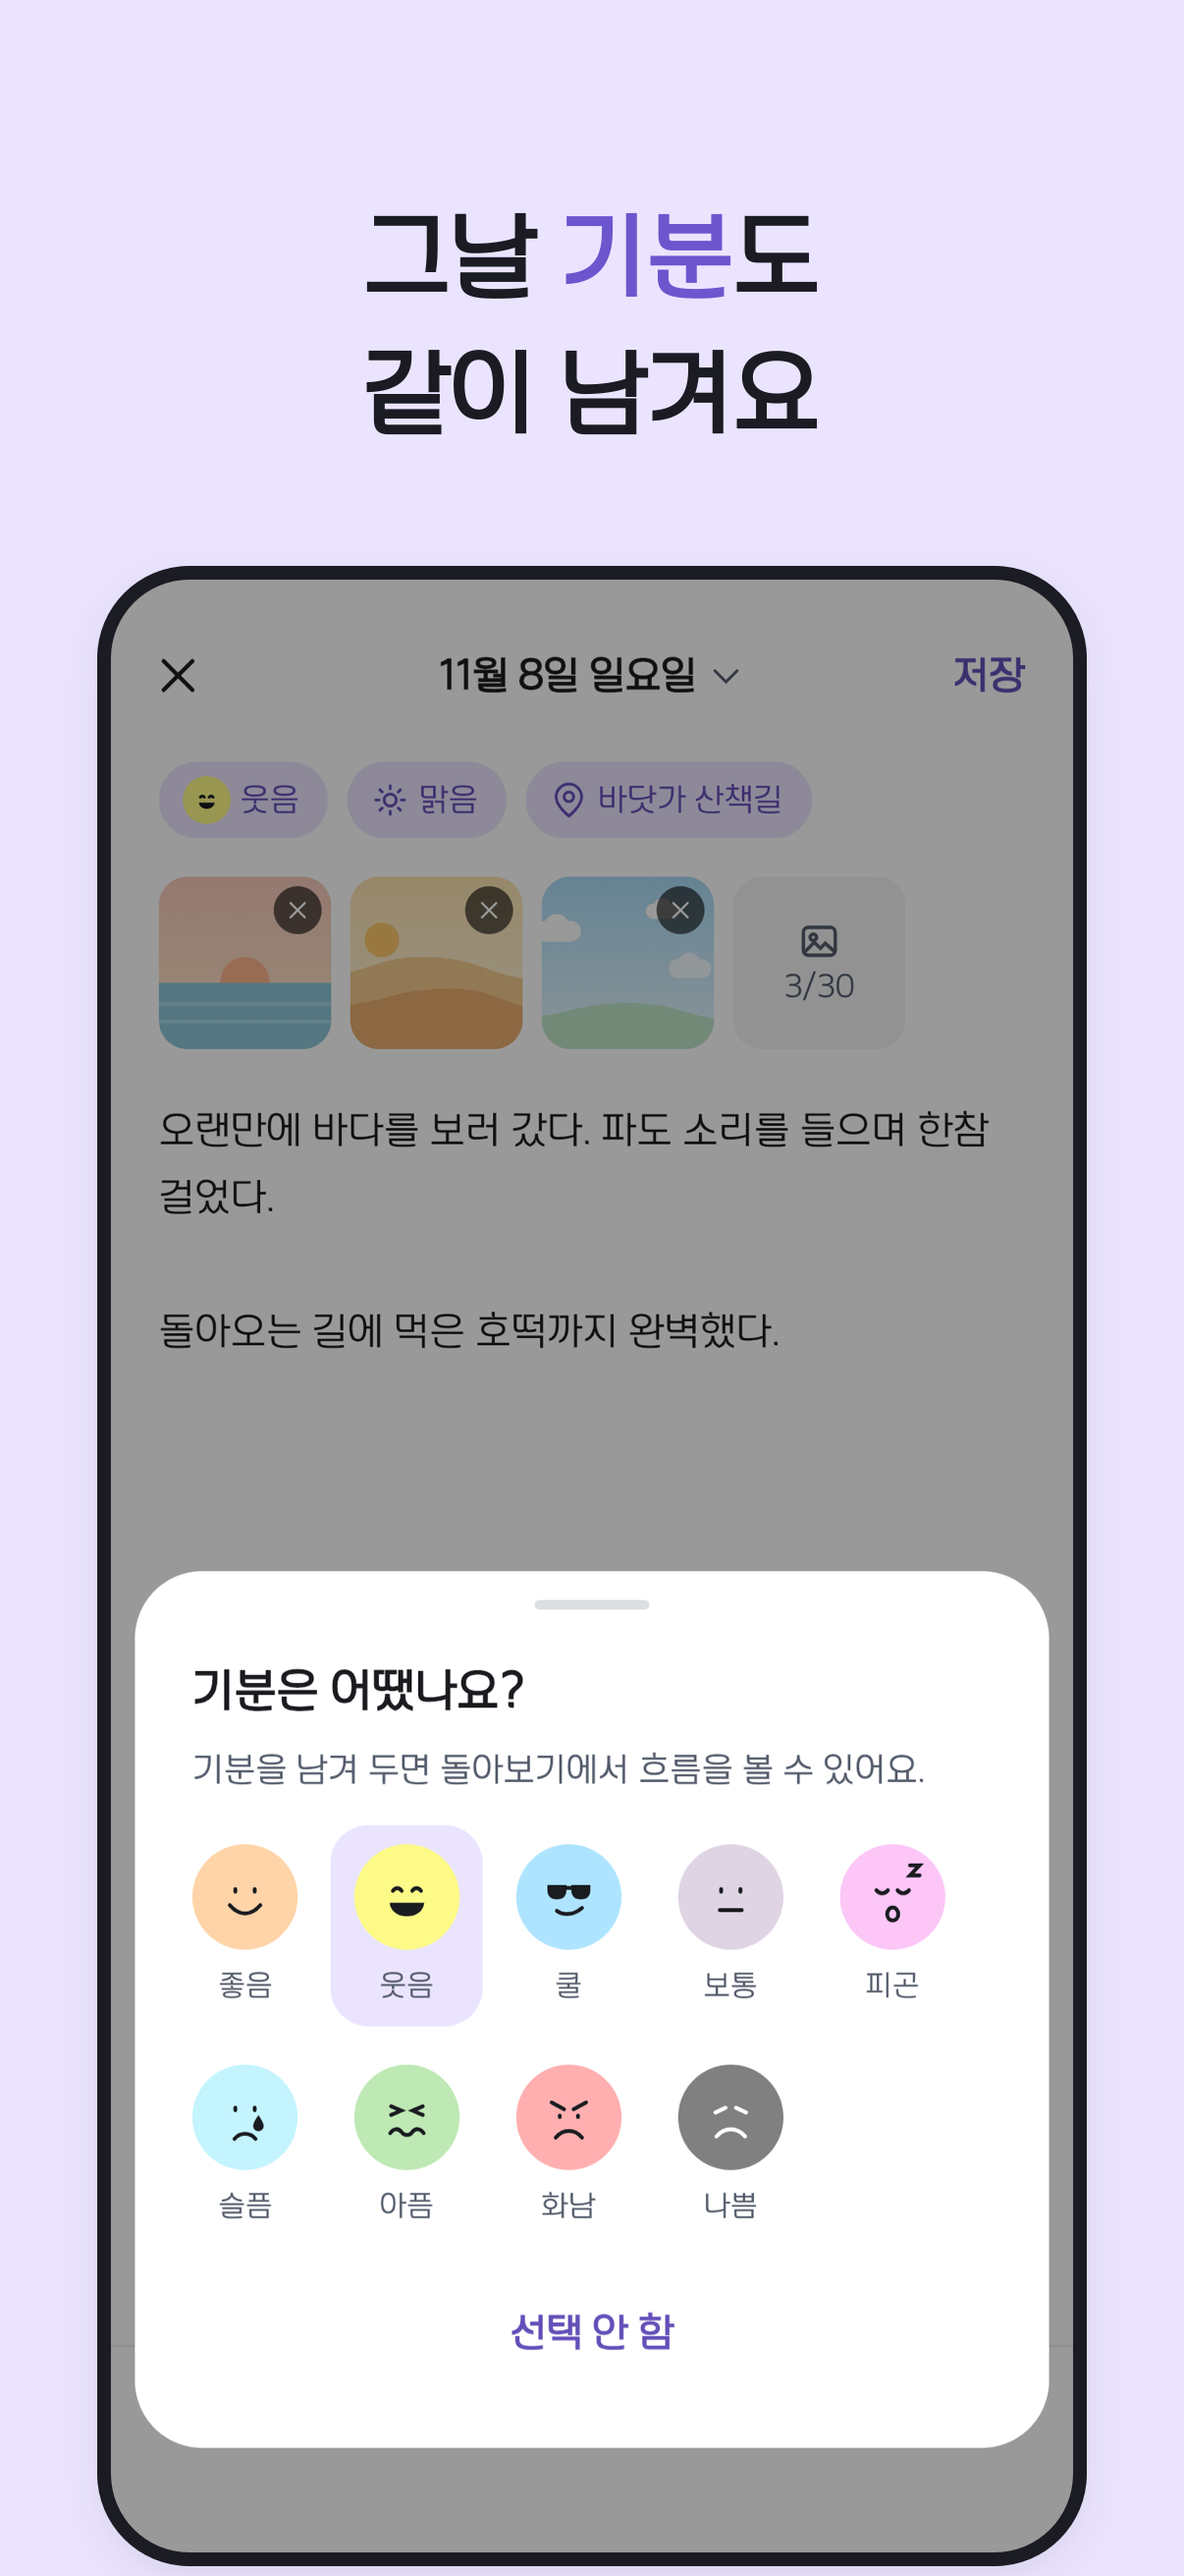
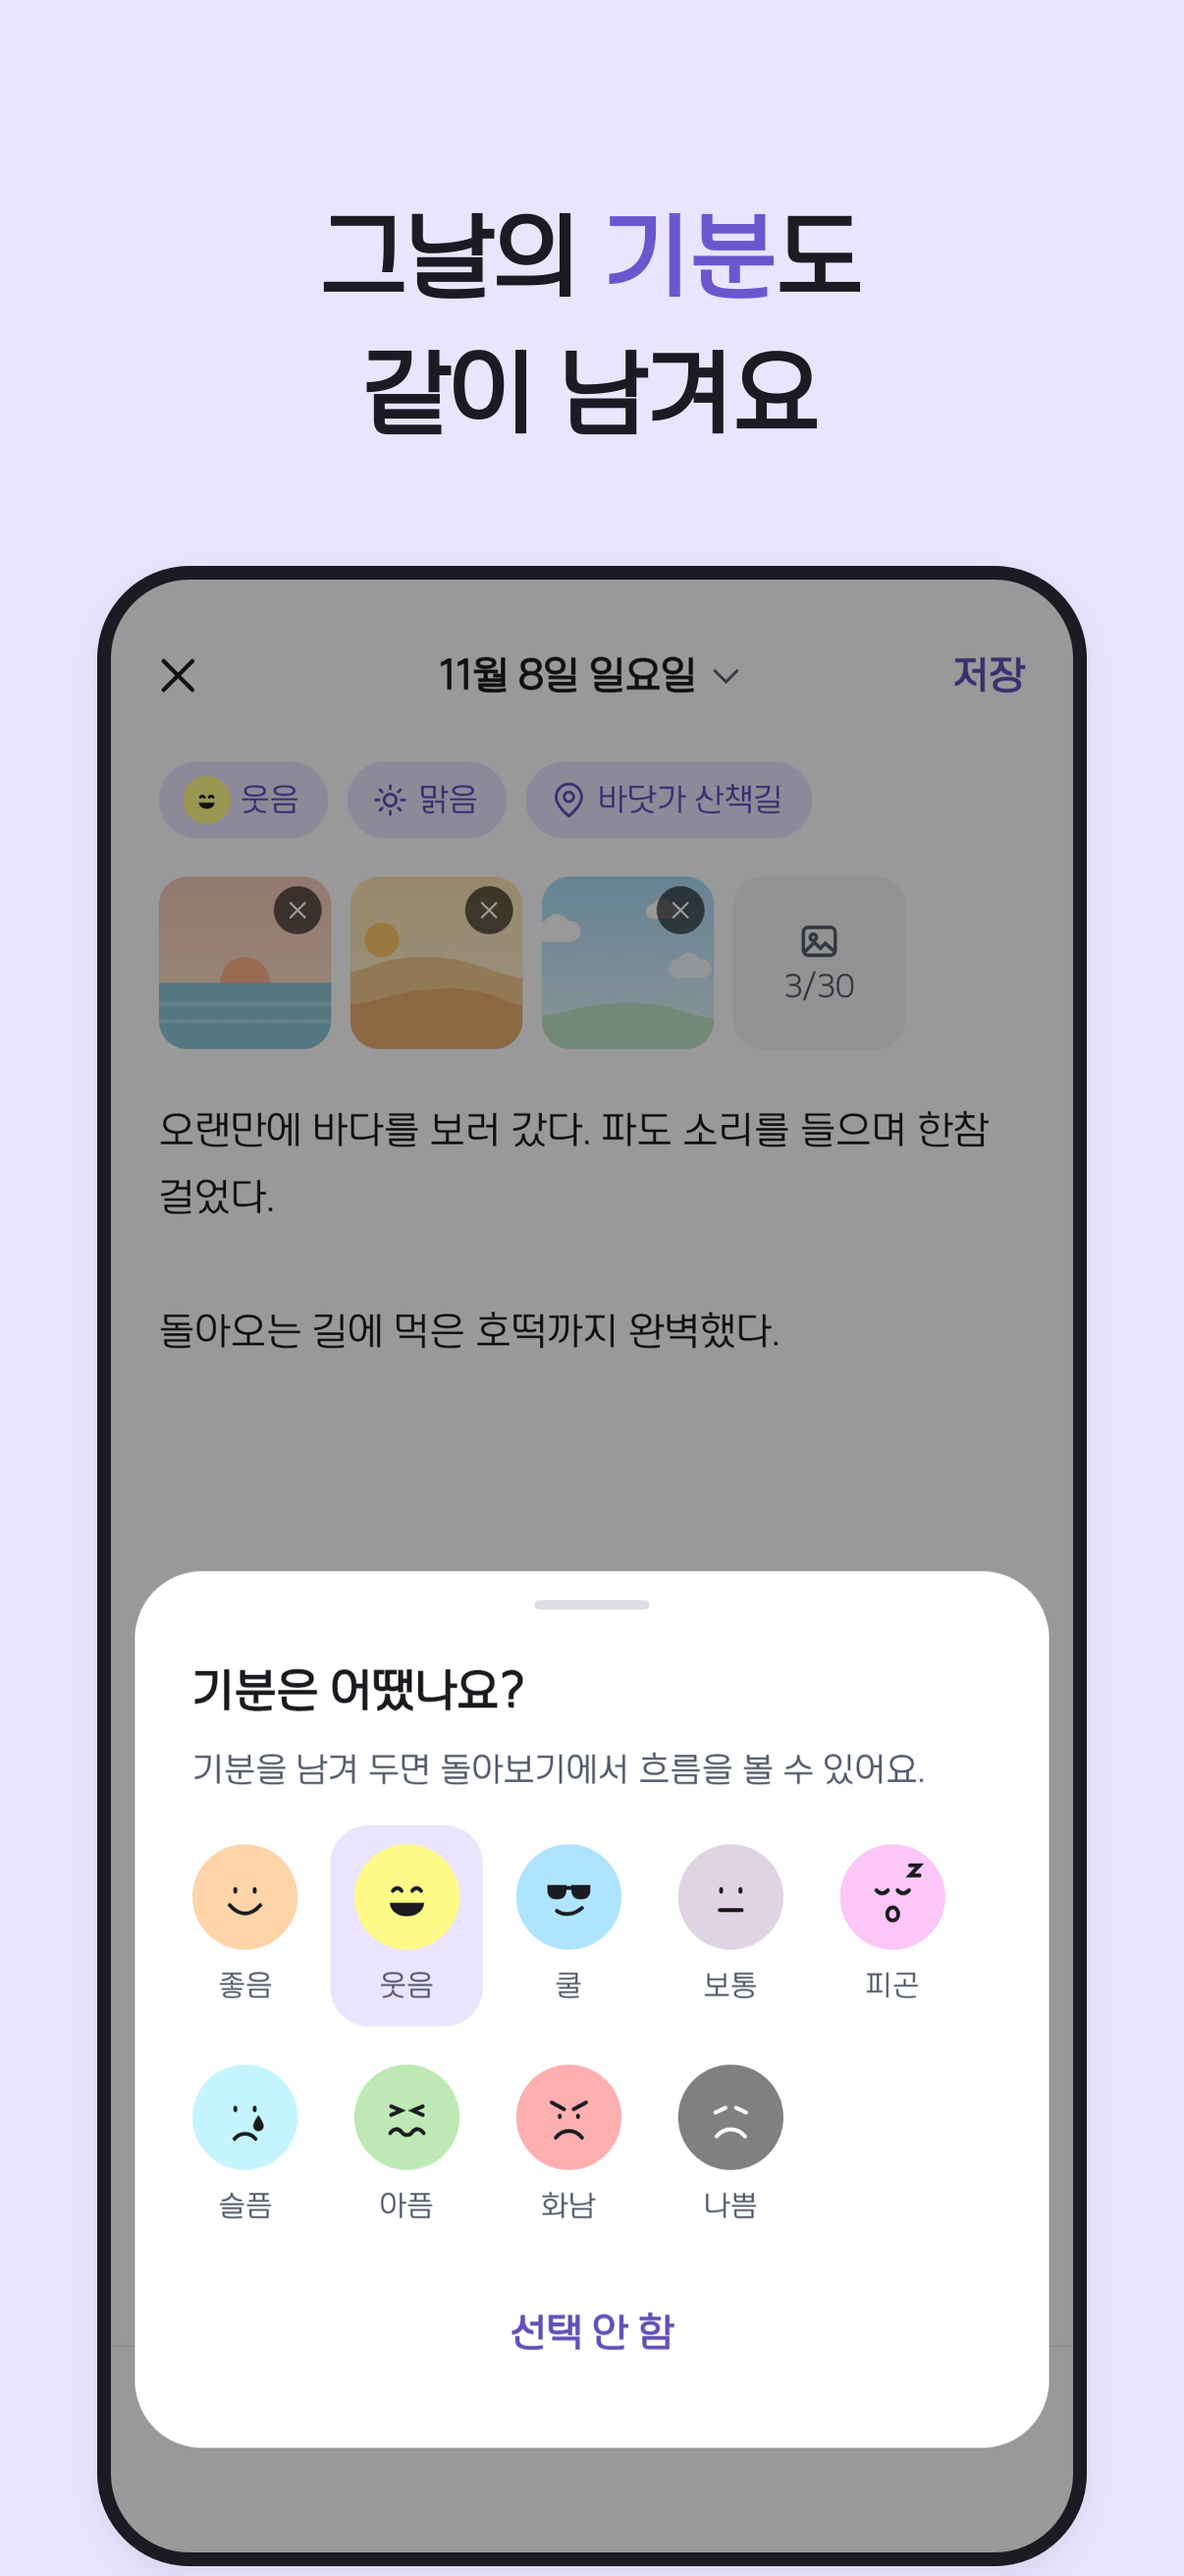
docs(release): 스크린샷 쓰기 장 머리말을 '그날의 기분도'로
"그날 기분도 같이 남겨요"를 사용자 요청으로 "그날의 기분도 같이 남겨요"로
바꿔 한국어 쓰기 장을 다시 만들었다. 한국어 자세한 설명은 실제 Play에
들어간 판(일기장 앱, 습관, 감정 기록 같은 검색어를 살린 문장)으로 맞췄다.

Changed region(s): [[0.2761, 0.0618, 0.7363, 0.1236]]

diff --git a/scripts/store/make_screens.swift b/scripts/store/make_screens.swift
@@ -136,7 +136,7 @@ func save(_ rep: NSBitmapImageRep, _ name: String) {
 // 장식과 기울임 없이 강조는 낱말 하나만
 let phoneSlides: [String: [(String, String, String)]] = [
     "ko": [
-        ("write", "그날 기분도\n같이 남겨요", "기분"),
+        ("write", "그날의 기분도\n같이 남겨요", "기분"),
         ("list", "지난 일기가\n한눈에 보여요", "한눈에"),
         ("calendar", "한 달 기분을\n달력으로 봐요", "달력"),
         ("insight", "어떤 기분이 많았는지\n돌아봐요", "돌아봐요"),
@@ -182,7 +182,7 @@ save(feature, "feature")
 // 태블릿·iPad 머리말(가로 한 줄). 폰 머리말과 같은 말을 한 줄로
 let tabletSlides: [String: [(String, String, String)]] = [
     "ko": [
-        ("write", "그날 기분도 같이 남겨요", "기분"),
+        ("write", "그날의 기분도 같이 남겨요", "기분"),
         ("list", "목록과 일기를 나란히 봐요", "나란히"),
         ("calendar", "한 달 기분을 달력으로 봐요", "달력"),
         ("insight", "어떤 기분이 많았는지 돌아봐요", "돌아봐요")
